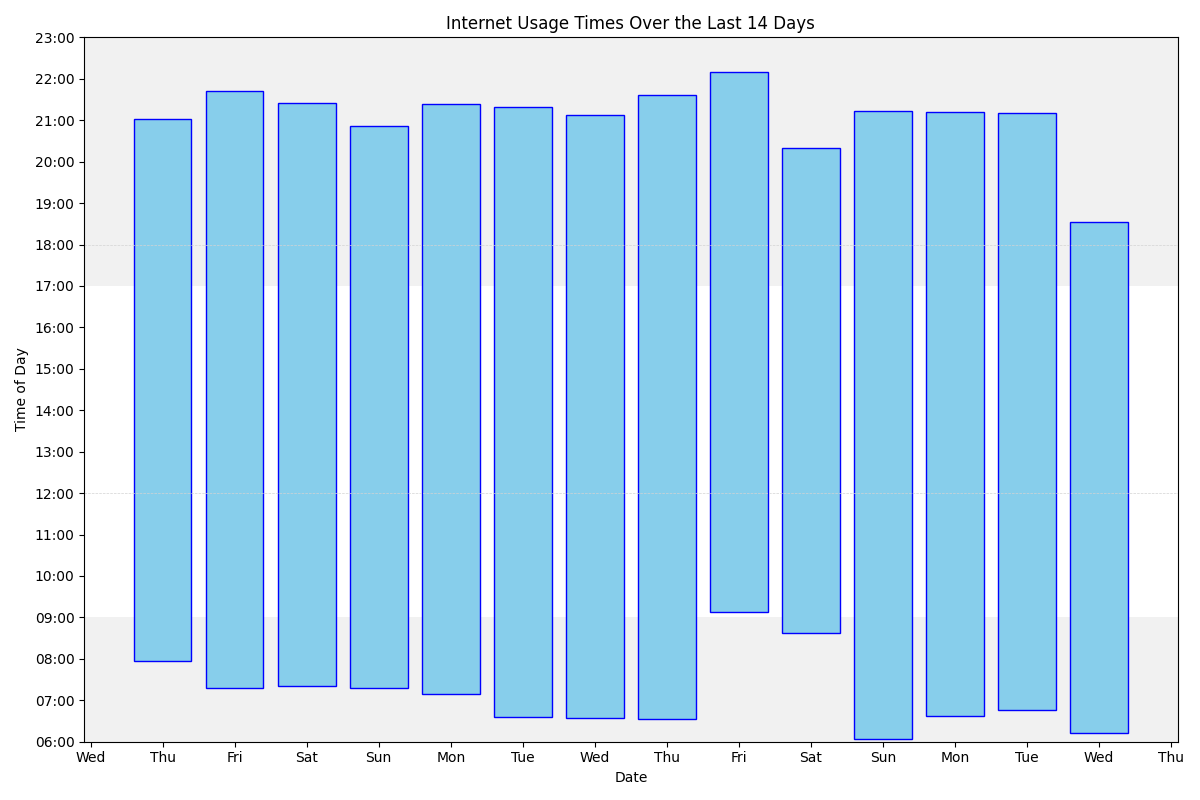
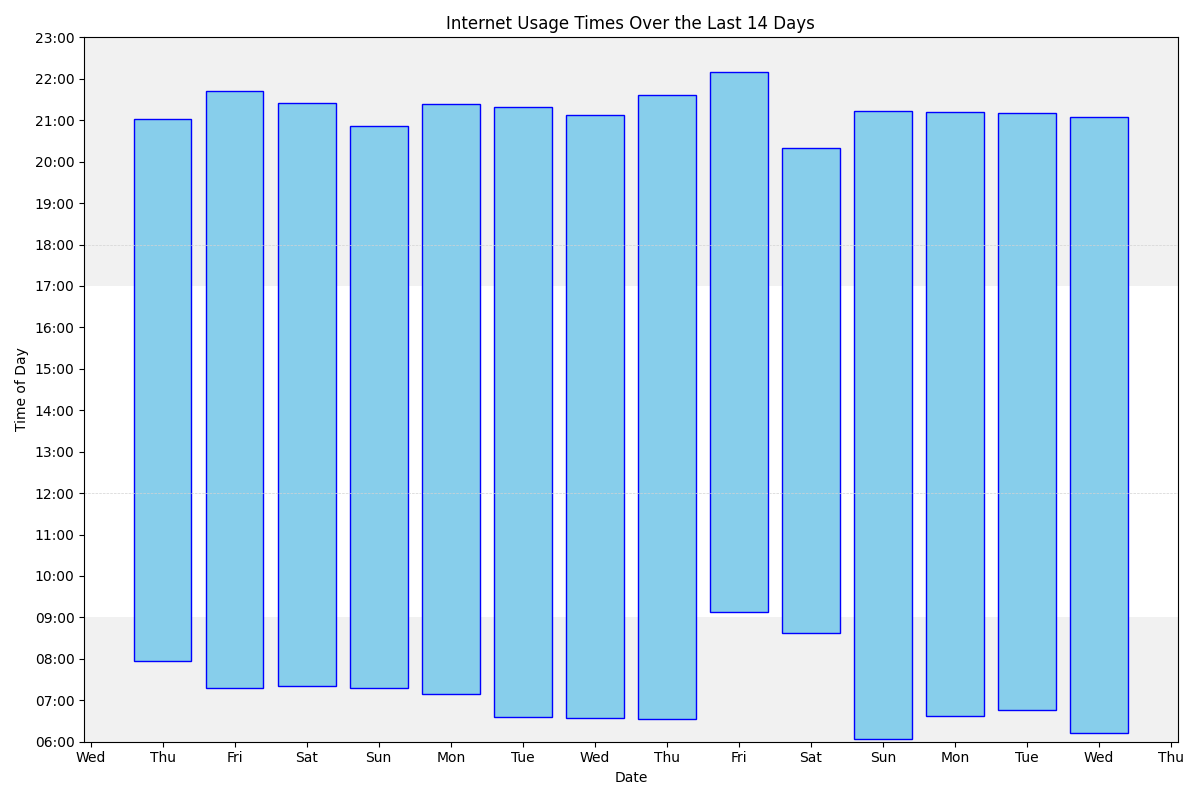
Update

Changed region(s): [[0.8633, 0.125, 0.9558, 0.2812]]

diff --git a/index.md b/index.md
@@ -70,7 +70,7 @@ With number of accesses/minutes in parentheses
 
 <ol><li>www.google.com (2192)</li>
 <li>outlook.office.com (1236)</li>
-<li>docs.google.com (1176)</li>
+<li>docs.google.com (1192)</li>
 <li>mail.google.com (1147)</li>
 <li>bsky.app (1091)</li>
 <li>outlook.office365.com (1090)</li>
@@ -78,7 +78,7 @@ With number of accesses/minutes in parentheses
 <li>www.amazon.co.uk (395)</li>
 <li>www.reddit.com (388)</li>
 <li>rhul-my.sharepoint.com (356)</li>
-<li>chatgpt.com (340)</li>
+<li>chatgpt.com (343)</li>
 <li>github.com (299)</li>
 <li>moodle.royalholloway.ac.uk (286)</li>
 <li>calendar.google.com (283)</li>
@@ -89,14 +89,14 @@ With number of accesses/minutes in parentheses
 <li>qbo.intuit.com (174)</li>
 <li>drive.google.com (170)</li>
 <li>forms.office.com (150)</li>
-<li>duckduckgo.com (144)</li>
+<li>duckduckgo.com (146)</li>
 <li>tvtropes.org (128)</li>
 <li>ev.turnitinuk.com (126)</li>
 <li>rhul.sharepoint.com (120)</li>
 <li>gmail.com (111)</li>
-<li>web.whatsapp.com (110)</li>
+<li>web.whatsapp.com (111)</li>
+<li>www.tesco.com (110)</li>
 <li>www.theguardian.com (109)</li>
-<li>www.tesco.com (109)</li>
 <li>chat.openai.com (107)</li>
 
 
@@ -108,7 +108,41 @@ With number of accesses/minutes in parentheses
 
 <br>
 
-<ul><li> 18:56 docs.google.com</li>
+<ul><li> 21:08 docs.google.com</li>
+<li class='same'> 21:07 docs.google.com</li>
+<li class='same'> 21:06 docs.google.com</li>
+<li class='same'> 21:05 docs.google.com</li>
+<li class='same'> 21:04 docs.google.com</li>
+<li> 21:04 duckduckgo.com</li>
+<li> 21:03 docs.google.com</li>
+<li class='same'> 21:02 docs.google.com</li>
+<li class='same'> 21:01 docs.google.com</li>
+<li class='same'> 21:00 docs.google.com</li>
+<li class='same'> 20:59 docs.google.com</li>
+<li> 20:59 www.tesco.com</li>
+<li> 20:59 duckduckgo.com</li>
+<li> 20:57 www.waterstones.com</li>
+<li> 20:56 chatgpt.com</li>
+<li> 20:56 auth0.openai.com</li>
+<li> 20:56 auth.openai.com</li>
+<li> 20:56 chatgpt.com</li>
+</ul>
+
+<br>
+
+<ul><li> 20:03 docs.google.com</li>
+<li class='same'> 19:55 docs.google.com</li>
+<li> 19:54 web.whatsapp.com</li>
+<li> 19:53 docs.google.com</li>
+<li class='same'> 19:52 docs.google.com</li>
+<li class='same'> 19:51 docs.google.com</li>
+<li> 19:40 chatgpt.com</li>
+</ul>
+
+<br>
+
+<ul><li> 18:58 docs.google.com</li>
+<li class='same'> 18:56 docs.google.com</li>
 <li> 18:33 outlook.office.com</li>
 </ul>
 
